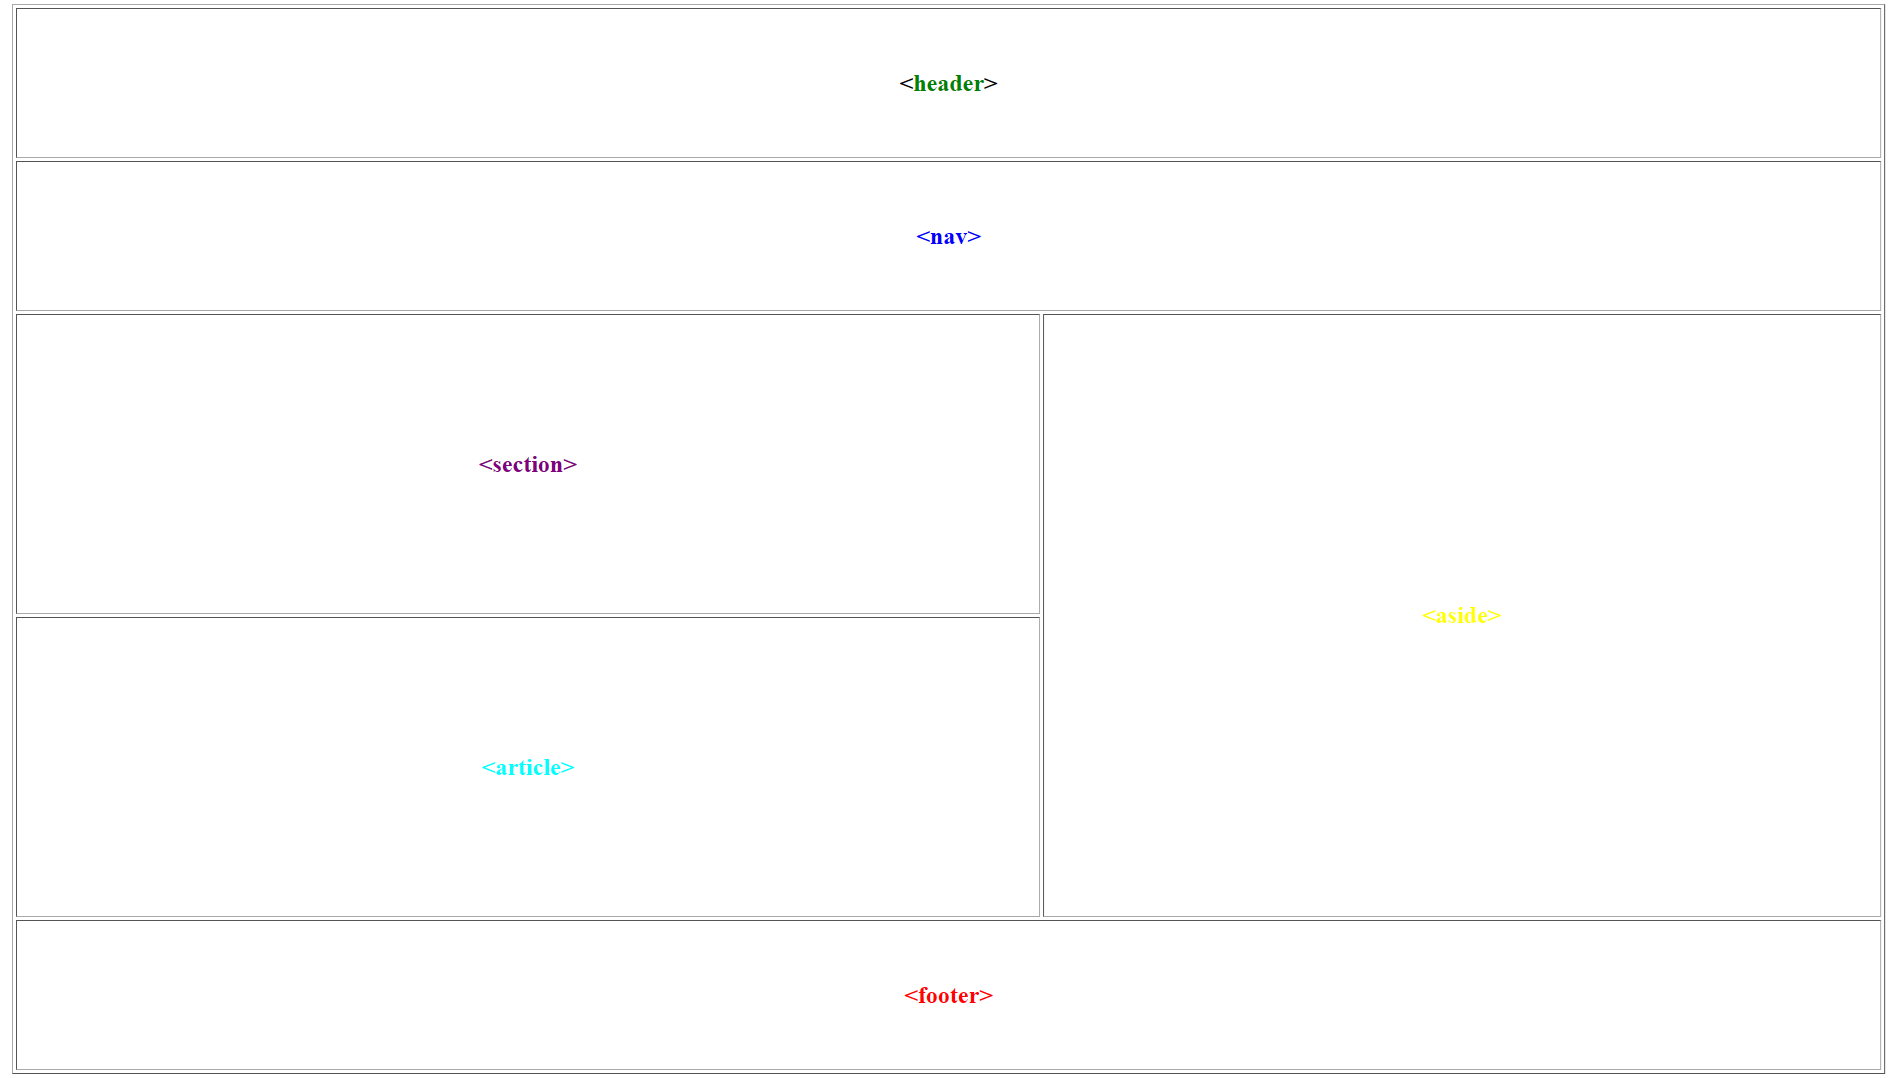
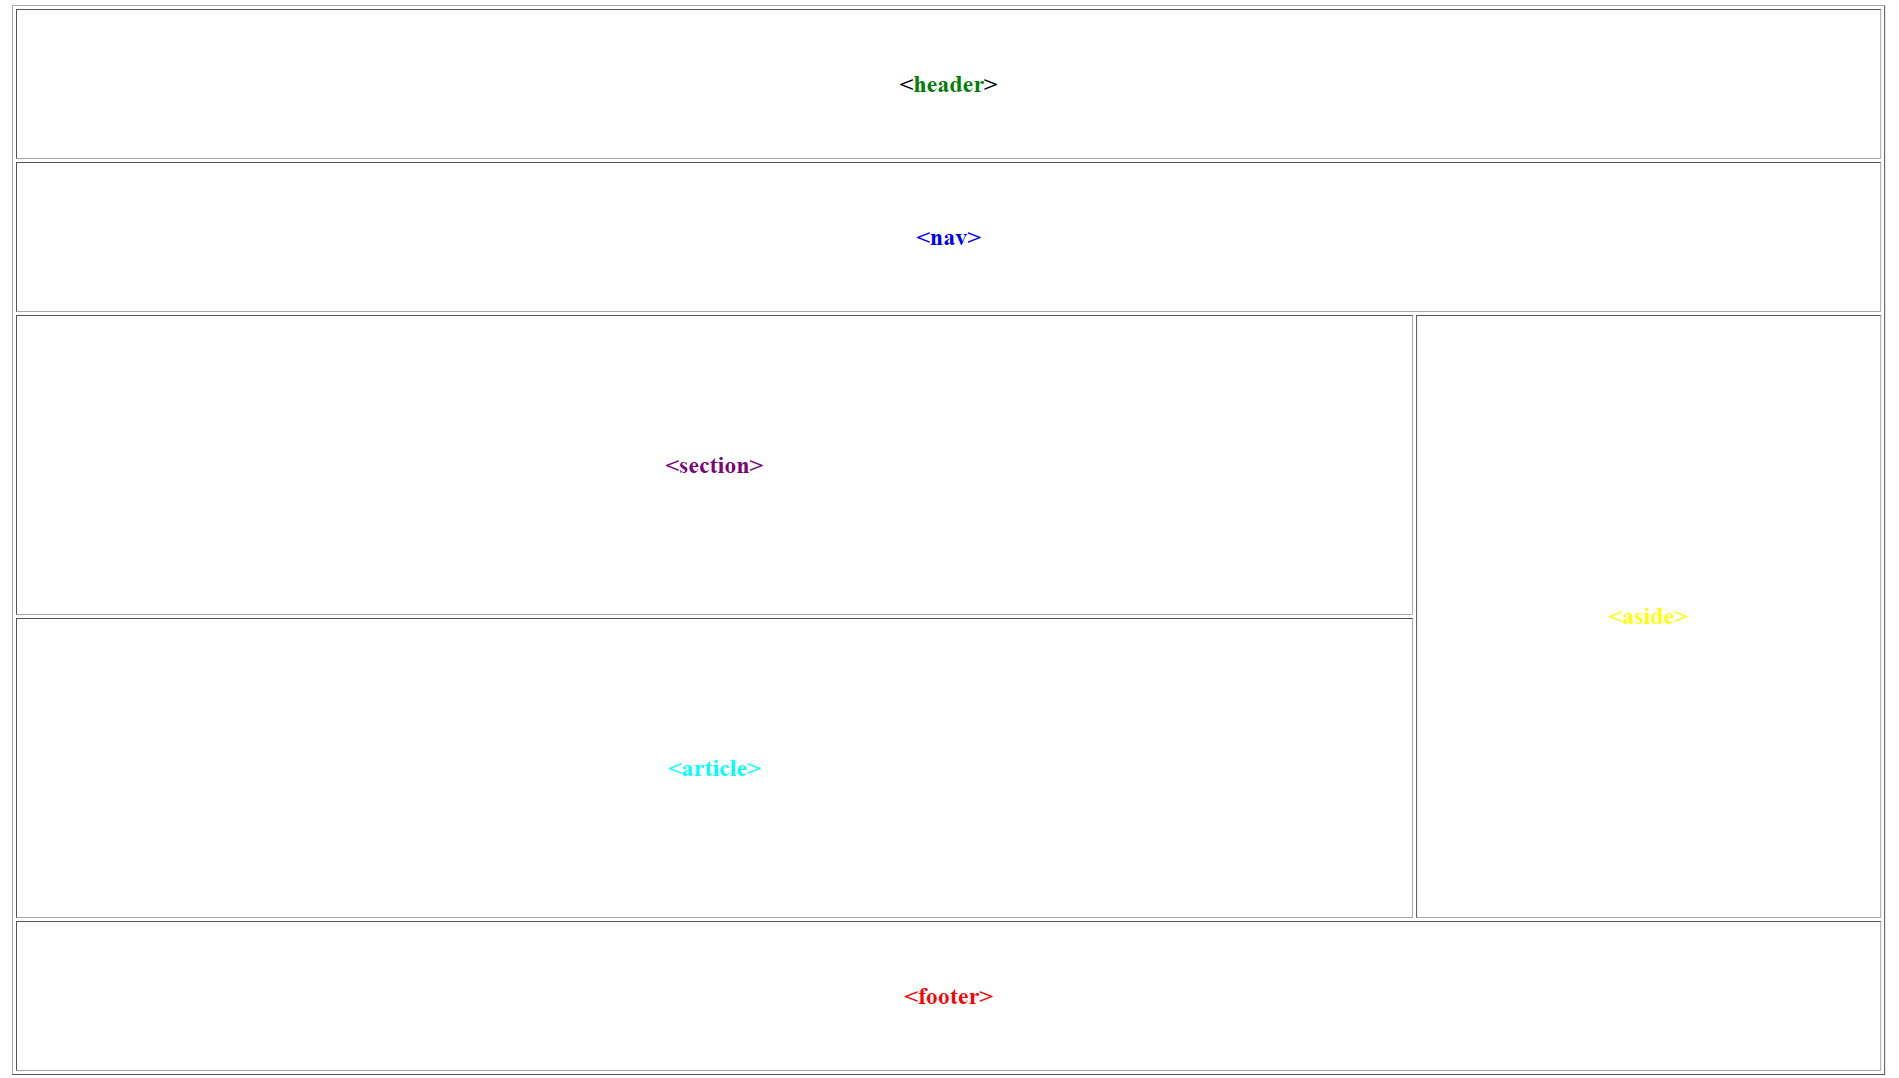
fix: fix column size and change screenshoot

diff --git a/index.html b/index.html
@@ -13,11 +13,11 @@
                 <td align="center" colspan="2"><font color="blue"><strong>&lt;nav&gt;</font></strong></td>
             </tr>
             <tr height="200px">
-                <td align="center"><font color="purple"><strong>&lt;section&gt;</font></strong></td>
-                <td align="center" rowspan="2"><font color="yellow"><strong>&lt;aside&gt;</font></strong></td>
+                <td align="center" width="75%"><font color="purple"><strong>&lt;section&gt;</font></strong></td>
+                <td align="center" width="25%" rowspan="2"><font color="yellow"><strong>&lt;aside&gt;</font></strong></td>
             </tr>
             <tr height="200px">
-                <td align="center"><font color="aqua"><strong>&lt;article&gt;</font></strong></td>
+                <td align="center" width="75%"><font color="aqua"><strong>&lt;article&gt;</font></strong></td>
             </tr>
             <tr height="100px">
                 <td align="center" colspan="2"><font color="red"><strong>&lt;footer&gt;</font></strong></td>
